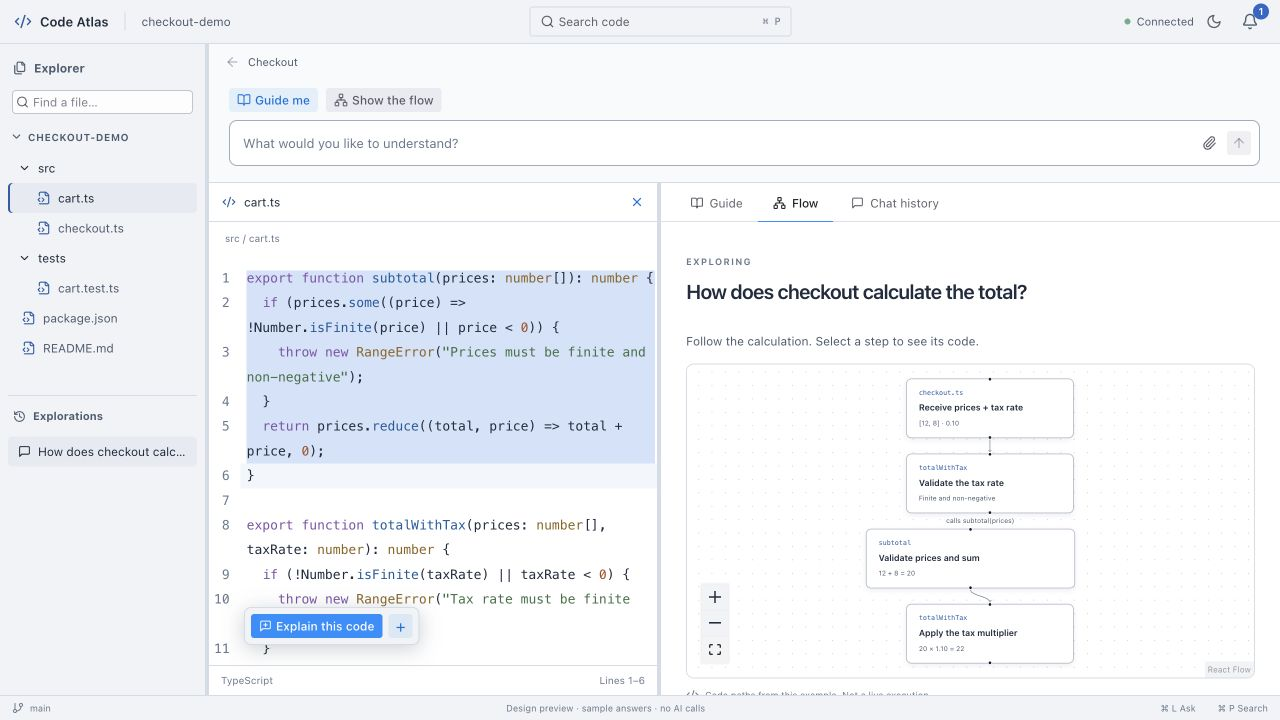
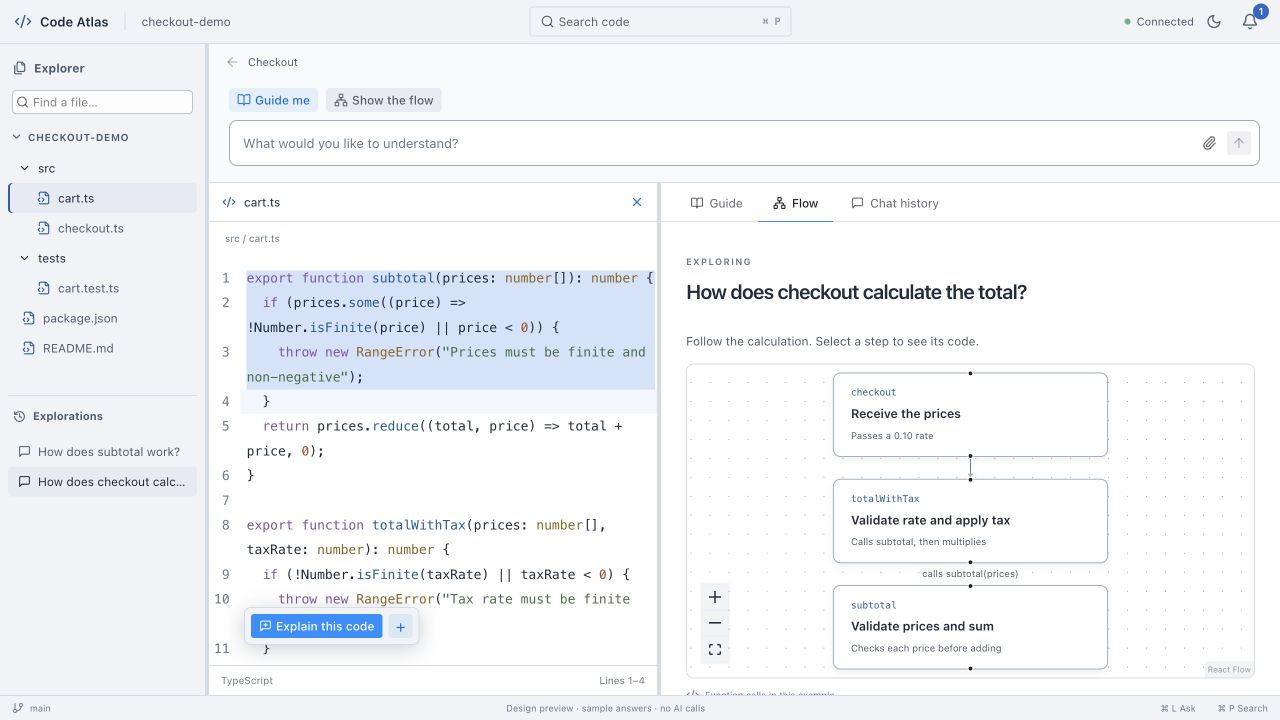
Keep workspace controls compact and refine nested exploration previews

diff --git a/src/design/WorkspacePreview.tsx b/src/design/WorkspacePreview.tsx
@@ -7,14 +7,23 @@ import { NotificationCenter, type WorkspaceNotification } from '../NotificationC
 import { CodePane } from './CodePane';
 import { exampleFiles, explorationPath, findExampleCode, readPreview, type CodeContext, type Exploration, type ExplorationView } from './example';
 
-const nodeLabels = ['Receive prices + tax rate', 'Validate the tax rate', 'Validate prices and sum', 'Apply the tax multiplier'];
+const nodeLabels = ['Receive the prices', 'Validate rate and apply tax', 'Validate prices and sum'];
 const nodes: Node[] = nodeLabels.map((label, i) => ({
-  id: String(i), position: { x: i === 2 ? 0 : 60, y: i * 112 },
-  data: { label: <><small>{['checkout.ts', 'totalWithTax', 'subtotal', 'totalWithTax'][i]}</small><strong>{label}</strong><span>{['[12, 8] · 0.10', 'Finite and non-negative', '12 + 8 = 20', '20 × 1.10 = 22'][i]}</span></> },
-  style: { width: i === 2 ? 312 : 250 },
+  id: String(i), position: { x: 0, y: i * 112 },
+  data: { label: <><small>{['checkout', 'totalWithTax', 'subtotal'][i]}</small><strong>{label}</strong><span>{['Passes a 0.10 rate', 'Calls subtotal, then multiplies', 'Checks each price before adding'][i]}</span></> },
+  style: { width: 290 },
   ariaLabel: label,
 }));
 const edges = nodes.slice(1).map((node, i) => ({ id: `e${i}`, source: String(i), target: node.id, markerEnd: { type: MarkerType.ArrowClosed }, label: i === 1 ? 'calls subtotal(prices)' : undefined }));
+const subtotalNodes: Node[] = [
+  { id: '0', position: { x: 108, y: 0 }, data: { label: <><small>subtotal · lines 1–4</small><strong>Check every price</strong><span>Finite and non-negative?</span></> }, style: { width: 205 } },
+  { id: '1', position: { x: 0, y: 140 }, data: { label: <><small>line 3</small><strong>Reject bad input</strong><span>Throw a RangeError</span></> }, style: { width: 205 } },
+  { id: '2', position: { x: 216, y: 140 }, data: { label: <><small>line 5</small><strong>Add from zero</strong><span>Return the subtotal</span></> }, style: { width: 205 } },
+];
+const subtotalEdges = [
+  { id: 'bad', source: '0', target: '1', label: 'Invalid', markerEnd: { type: MarkerType.ArrowClosed } },
+  { id: 'good', source: '0', target: '2', label: 'Valid', markerEnd: { type: MarkerType.ArrowClosed } },
+];
 
 function contextLabel(context: CodeContext) { return `${context.path.split('/').at(-1)}${context.from ? `:${context.from}${context.to !== context.from ? `–${context.to}` : ''}` : ''}`; }
 
@@ -61,7 +70,7 @@ export function WorkspacePreview() {
   }
   function explore(question: string, view: 'guide' | 'flow' = current.view === 'flow' ? 'flow' : 'guide', context = attachments) {
     if (!question.trim()) { setView(view); composer.current?.focus(); return; }
-    const kind = /negative|invalid|validat|reject/i.test(question) ? 'validation' : /overflow|break|limit|safe/i.test(question) ? 'limits' : /tax|rate/i.test(question) ? 'tax' : 'overview';
+    const kind = /negative|invalid|validat|reject|subtotal/i.test(question) ? 'validation' : /overflow|break|limit|safe/i.test(question) ? 'limits' : /tax|rate/i.test(question) ? 'tax' : 'overview';
     const existing = state.explorations.find((e) => e.parentId === current.id && e.question === question && JSON.stringify(e.context) === JSON.stringify(context));
     const next: Exploration = existing ?? { id: crypto.randomUUID(), parentId: current.id, question, view, context, kind };
     setState((s) => ({ ...s, currentId: next.id, explorations: existing ? s.explorations : [...s.explorations, next] }));
@@ -91,7 +100,8 @@ export function WorkspacePreview() {
   ] }));
   const children = state.explorations.filter((e) => e.parentId === current.id);
   const results = findExampleCode(searchQuery);
-  const nodeSource = (index: number): CodeContext => index === 0 ? { path: 'src/checkout.ts', from: 3, to: 5 } : index === 2 ? { path: 'src/cart.ts', from: 1, to: 6 } : { path: 'src/cart.ts', from: index === 1 ? 8 : 12, to: index === 1 ? 11 : 12 };
+  const nodeSource = (index: number): CodeContext => index === 0 ? { path: 'src/checkout.ts', from: 3, to: 5 } : index === 2 ? { path: 'src/cart.ts', from: 1, to: 6 } : { path: 'src/cart.ts', from: 8, to: 13 };
+  const detailFlow = /subtotal|negative|invalid/i.test(current.question);
 
   return <Theme appearance={state.theme} accentColor="blue" grayColor="slate" radius="medium" scaling="100%" className={`workspace-preview ${state.theme}`}>
     <header className="preview-titlebar">
@@ -152,14 +162,14 @@ export function WorkspacePreview() {
                     <article className="preview-answer-card">
                       <div className="preview-answer-number">01<span>{current.kind === 'validation' ? 'Input validation' : current.kind === 'limits' ? 'Edge cases' : 'Follow the calculation'}</span></div>
                       <h2>{current.kind === 'validation' ? 'Bad prices stop the calculation.' : current.kind === 'limits' ? 'Valid inputs can still produce an invalid total.' : 'Validate first. Sum next. Apply tax last.'}</h2>
-                      <p>{current.kind === 'validation' ? 'subtotal checks every price before reducing the array. A negative value, NaN, or Infinity throws a RangeError. No partial total is returned.' : current.kind === 'limits' ? 'Checking each input is not enough to guarantee a finite result. Adding very large finite prices can overflow, and the final multiplication has no extra check.' : 'checkout passes the prices and a 0.10 rate to totalWithTax. That function checks the rate, calls subtotal to check and add the prices, then multiplies the result by 1 + taxRate.'}</p>
+                      <p>{current.kind === 'validation' ? 'subtotal checks every price before reducing the array. A negative value, NaN, or Infinity throws a RangeError. No partial total is returned.' : current.kind === 'limits' ? 'Checking each input is not enough to guarantee a finite result. Adding very large finite prices can overflow, and the final multiplication has no extra check.' : 'checkout calls totalWithTax with a 0.10 rate. The rate is checked first. subtotal then validates and adds the prices; the result is multiplied by 1 + taxRate.'}</p>
                       <button className="preview-source-link" onClick={() => openFile({ path: 'src/cart.ts', from: current.kind === 'validation' ? 1 : 8, to: current.kind === 'validation' ? 6 : 13 })}><Code2 size={13} />cart.ts:{current.kind === 'validation' ? '1–6' : '8–13'}<ArrowRight size={13} /></button>
-                      <div className="preview-visual">
+                      {current.kind === 'validation' ? <div className="preview-visual preview-validation-visual"><div className="preview-visual-label">BEFORE ADDING ANY PRICES</div><div><code>[-1, 8]</code><ArrowRight size={16} /><span>RangeError</span></div><div><code>[12, 8]</code><ArrowRight size={16} /><span>20</span></div><p>One invalid price stops the calculation. An empty array returns zero.</p></div> : <div className="preview-visual">
                         <div className="preview-visual-label">{['CHECK THE INPUTS', 'ADD THE PRICES', 'APPLY TAX'][slide]}</div>
                         <div className="preview-calculation"><div><small>{slide === 0 ? 'Prices' : slide === 1 ? 'First price' : 'Subtotal'}</small><strong>{slide === 0 ? '[12, 8]' : slide === 1 ? '$12' : '$20'}</strong></div><span>{slide === 0 ? '+' : slide === 1 ? '+' : '×'}</span><div><small>{slide === 0 ? 'Tax rate' : slide === 1 ? 'Second price' : 'Multiplier'}</small><strong>{slide === 0 ? '0.10' : slide === 1 ? '$8' : '1.10'}</strong></div><ArrowRight size={18} /><div className="preview-calculation-result"><small>{slide === 0 ? 'Both finite ≥ 0' : slide === 1 ? 'Subtotal' : 'Total'}</small><strong>{slide === 0 ? <Check size={23} /> : slide === 1 ? '$20' : '$22'}</strong></div></div>
                         <div className="preview-visual-caption">{['Invalid inputs throw a RangeError before a result is returned.', 'reduce starts at zero and adds each validated price.', 'A rate of 0.10 adds 10% to the subtotal.'][slide]}</div>
                         <div className="preview-player"><Tooltip content="Play this visual step"><IconButton size="1" variant="ghost" color="gray" aria-label={playing ? 'Pause visual preview' : 'Play visual preview'} onClick={() => { if (slide === 2) setSlide(0); setPlaying((p) => !p); }}>{playing ? <Pause size={14} /> : <Play size={14} />}</IconButton></Tooltip><span>{slide + 1} of 3</span><div className="preview-player-dots">{[0, 1, 2].map((n) => <button key={n} aria-label={`Visual step ${n + 1}`} aria-current={slide === n ? 'step' : undefined} onClick={() => { setSlide(n); setPlaying(false); }} />)}</div><Button size="1" variant="ghost" color="gray" disabled={slide === 2} onClick={() => { setSlide((n) => n + 1); setPlaying(false); }}>Next<ArrowRight size={13} /></Button></div>
-                      </div>
+                      </div>}
                       <h3>{current.kind === 'limits' ? 'What to watch for' : 'The detail that matters'}</h3>
                       <p>{current.kind === 'limits' ? 'There is no rounding or currency type here. This example uses ordinary JavaScript numbers; callers must decide how monetary precision and overflow should be handled.' : 'The rate check runs first. If the rate is invalid, subtotal never runs. If a price is invalid, subtotal throws and the tax multiplication never happens.'}</p>
                       <footer className="preview-card-footer"><button onClick={() => explore('Why reject negative prices?', 'guide')}><ArrowDown size={13} />Why reject negative prices?</button><span>{children.length ? `${children.length} exploration${children.length === 1 ? '' : 's'}` : 'Go deeper'}</span></footer>
@@ -169,9 +179,9 @@ export function WorkspacePreview() {
                   </Tabs.Content>
                   <Tabs.Content value="flow">
                     <p className="preview-flow-intro">Follow the calculation. Select a step to see its code.</p>
-                    <div className="preview-flow"><ReactFlow nodes={nodes} edges={edges} fitView fitViewOptions={{ padding: .2 }} nodesDraggable={false} nodesConnectable={false} colorMode={state.theme} onNodeClick={(_, node) => openFile(nodeSource(Number(node.id)))} minZoom={.4} maxZoom={1.5} aria-label="Checkout calculation flow"><Background gap={20} size={1} /><Controls showInteractive={false} /></ReactFlow></div>
-                    <div className="preview-flow-caption"><Code2 size={13} />Code paths from this example. Not a live execution.</div>
-                    <Button variant="soft" size="2" onClick={() => { openFile({ path: 'src/cart.ts', from: 1, to: 6 }); explore('How does subtotal work?', 'flow'); }}><Network size={14} />Explore subtotal<ChevronRight size={14} /></Button>
+                    <div className="preview-flow"><ReactFlow key={detailFlow ? 'subtotal' : 'project'} nodes={detailFlow ? subtotalNodes : nodes} edges={detailFlow ? subtotalEdges : edges} fitView fitViewOptions={{ padding: .06 }} nodesDraggable={false} nodesConnectable={false} colorMode={state.theme} onNodeClick={(_, node) => openFile(detailFlow ? { path: 'src/cart.ts', from: node.id === '0' ? 1 : node.id === '1' ? 3 : 5, to: node.id === '0' ? 4 : node.id === '1' ? 3 : 5 } : nodeSource(Number(node.id)))} minZoom={.4} maxZoom={1.5} aria-label={detailFlow ? 'Subtotal validation flow' : 'Checkout calculation flow'}><Background gap={20} size={1} /><Controls showInteractive={false} /></ReactFlow></div>
+                    <div className="preview-flow-caption"><Code2 size={13} />{detailFlow ? 'Validation and calculation inside subtotal.' : 'Function calls in this example.'}</div>
+                    <Button variant="soft" size="2" onClick={() => { openFile({ path: 'src/cart.ts', from: 1, to: 6 }); explore(detailFlow ? 'Why reject negative prices?' : 'How does subtotal work?', 'flow'); }}><Network size={14} />{detailFlow ? 'Explore input validation' : 'Explore subtotal'}<ChevronRight size={14} /></Button>
                   </Tabs.Content>
                   <Tabs.Content value="history"><div className="preview-chat-history">{ancestors.flatMap((e) => [{ id: e.id, question: e.question, owner: e.id }, ...(e.turns ?? []).map((t) => ({ ...t, owner: e.id }))]).map((turn) => <div key={turn.id}><div className="preview-history-question"><MessageSquare size={15} /><strong>{turn.question}</strong></div><p>The calculation validates its inputs, sums prices, and applies the tax multiplier.</p><button onClick={() => { setState((s) => ({ ...s, currentId: turn.owner })); setView('guide'); }}><BookOpen size={13} />Open explanation<ArrowRight size={13} /></button></div>)}</div></Tabs.Content>
                   {current.view !== 'history' && (current.turns ?? []).map((turn, index) => {

diff --git a/src/App.tsx b/src/App.tsx
@@ -1311,7 +1311,7 @@ function App() {
     ...pendingChapterPreviews.map((preview): WorkspaceNotification => ({
       id: `preview:${preview.generationId}`, title: preview.unavailableReason ? 'An explanation needs attention' : 'An explanation is ready',
       message: `${preview.title}${preview.targetPath ? ` · ${preview.targetPath}` : ''}`, tone: preview.unavailableReason ? 'warning' : 'info',
-      actions: [{ label: 'Open explanation', disabled: Boolean(preview.unavailableReason), run: () => {
+      actions: [{ label: 'Open explanation', disabled: Boolean(preview.unavailableReason), opensDialog: true, run: () => {
         recoveredPreviewReturnFocusRef.current = document.querySelector<HTMLButtonElement>('[data-focus-key="notifications"]');
         setRecoveredPreviewId(preview.generationId);
       } }, { label: 'Discard preview', run: () => { void discardPendingPreview(preview); } }],
@@ -1470,7 +1470,7 @@ function App() {
               aria-expanded={toolsOpen}
               aria-haspopup="menu"
             >
-              <Settings2 size={16} /><span>Settings</span>
+              <Settings2 size={16} />
             </button>
             {toolsOpen && (
               <div className="tools-menu" role="menu" aria-label="More tools">
@@ -1482,16 +1482,10 @@ function App() {
                 <button role="menuitem" data-focus-key="tools-button" onClick={() => chooseWorkspace('chapter-studio')}>
                   <BookOpen size={16} /> <span>Review a draft</span>
                 </button>
+                <button role="menuitem" onClick={() => { setToolsOpen(false); showComingSoon('Keyboard shortcuts', '⌘1 Guide · ⌘2 Files · ⌘3 Changes · ⌘K Search · ⌘[ Back · ⌘] Forward · ⌘= zoom in · ⌘− zoom out (20% steps)'); }}><CircleHelp size={16} /><span>Keyboard shortcuts</span></button>
               </div>
             )}
           </div>
-          <button
-            className="icon-button help-button"
-            onClick={() => showComingSoon('Code Atlas help', 'Shortcuts: ⌘1 Guide · ⌘2 Files · ⌘3 Changes · ⌘[ Back · ⌘] Forward · ⌘= zoom in · ⌘− zoom out (20% steps).')}
-            aria-label="Help and keyboard shortcuts"
-          >
-            <CircleHelp size={17} />
-          </button>
         </div>
       </header>
 
@@ -1711,8 +1705,8 @@ function App() {
             )}
 
             <footer className="workspace-footer">
-              <span>{runtime?.native ? 'Mac app' : 'Desktop preview'} <span className="footer-dot">·</span> {runtime?.version ?? 'Checking shell…'}</span>
-              <span>{currentWorkspace === 'changes' ? 'Local Git comparison reads existing commit objects only. No checkout or remote request.' : selectedSnapshot ? `Immutable local snapshot ${selectedSnapshot.snapshotId.slice(-10)} · ${selectedSnapshot.status === 'partial' ? 'partial capture' : 'complete under policy'}` : currentCapture?.status === 'running' ? 'Capturing bounded repository bytes locally.' : currentProject ? 'No source bytes are read until you create a snapshot.' : 'No repository source is read until you choose a folder and create a snapshot.'}</span>
+              <span>{currentProject?.displayName ?? 'Code Atlas'}</span>
+              <span>{currentWorkspace === 'changes' ? 'Local changes' : selectedSnapshot?.branch ?? ''}</span>
             </footer>
           </section>
         </main>

diff --git a/src/design/CodePane.tsx b/src/design/CodePane.tsx
@@ -30,7 +30,7 @@ export function CodePane({ path, theme, reveal, onExplain, onAttach, onClose }: 
     const view = new EditorView({ parent: host.current, state: EditorState.create({
       doc: exampleFiles[path], extensions: [
         EditorState.readOnly.of(true), lineNumbers(), drawSelection(), highlightActiveLine(), EditorView.lineWrapping,
-        javascript({ typescript: path.endsWith('.ts') }), syntaxHighlighting(colors),
+        ...(path.endsWith('.ts') ? [javascript({ typescript: true })] : []), syntaxHighlighting(colors),
         EditorView.theme({ '&': { height: '100%', backgroundColor: 'var(--editor-bg)', color: 'var(--text)' }, '.cm-scroller': { fontFamily: 'var(--mono)', fontSize: '13px', lineHeight: '1.9' }, '.cm-content': { padding: '16px 0' }, '.cm-gutters': { backgroundColor: 'var(--editor-bg)', color: 'var(--dim)', borderRight: 'none', paddingRight: '8px' }, '.cm-activeLine, .cm-activeLineGutter': { backgroundColor: 'var(--active-line)' }, '.cm-selectionBackground, &.cm-focused .cm-selectionBackground': { backgroundColor: 'var(--selection)' }, '&.cm-focused': { outline: 'none' } }, { dark: theme === 'dark' }),
         EditorView.contentAttributes.of({ 'aria-label': `Source code, ${path}` }),
         keymap.of([{ key: 'Mod-i', run: (v) => { const r = v.state.selection.main; if (r.empty) return false; callback.current({ path, from: v.state.doc.lineAt(r.from).number, to: v.state.doc.lineAt(r.to).number }); return true; } }, ...defaultKeymap]),
@@ -47,6 +47,7 @@ export function CodePane({ path, theme, reveal, onExplain, onAttach, onClose }: 
   useEffect(() => {
     const view = editor.current;
     if (!view || !reveal || reveal.path !== path) return;
+    if (!reveal.from) { view.dispatch({ selection: { anchor: 0 } }); return; }
     const from = view.state.doc.line(Math.min(reveal.from ?? 1, view.state.doc.lines)).from;
     const to = view.state.doc.line(Math.min(reveal.to ?? reveal.from ?? 1, view.state.doc.lines)).to;
     view.dispatch({ selection: { anchor: from, head: to }, effects: EditorView.scrollIntoView(from, { y: 'center' }) });
@@ -59,6 +60,6 @@ export function CodePane({ path, theme, reveal, onExplain, onAttach, onClose }: 
       <Button size="1" onClick={() => onExplain(selection)}><MessageSquarePlus size={13} />Explain this code</Button>
       <Tooltip content="Add selected lines to your question"><IconButton size="1" variant="soft" aria-label="Add selection to chat" onClick={() => onAttach(selection)}>+</IconButton></Tooltip>
     </div>}
-    <footer className="preview-editor-footer"><span>TypeScript</span><span>{selection ? `Lines ${selection.from}–${selection.to}` : 'Select code to ask about it'}</span></footer>
+    <footer className="preview-editor-footer"><span>{path.endsWith('.ts') ? 'TypeScript' : path.endsWith('.json') ? 'JSON' : 'Markdown'}</span><span>{selection ? `Lines ${selection.from}–${selection.to}` : 'Select code to ask about it'}</span></footer>
   </section>;
 }

diff --git a/src/ConnectionHeader.tsx b/src/ConnectionHeader.tsx
@@ -13,8 +13,7 @@ export function ConnectionHeader({ onOpen }: { onOpen: () => void }) {
   }, []);
   useEffect(() => { if (backend === 'codex') initializeConnection(); }, [backend]);
   const ready = backend === 'codex' && connection.status?.authenticated && connection.status.runtimeRunning;
-  const model = connection.models.find((item) => item.modelId === connection.selection.modelId)?.displayName ?? connection.selection.modelId;
-  const label = backend !== 'codex' ? backend === 'api' ? 'API connection' : 'Agent connection' : connection.checking ? 'Connecting Codex…' : ready ? `Codex · ${model} · ${connection.selection.effort}` : 'Connect Codex';
+  const label = backend !== 'codex' ? backend === 'api' ? 'API connection' : 'Agent connection' : connection.checking ? 'Connecting…' : ready ? 'Codex' : 'Connect Codex';
   const Icon = connection.checking ? LoaderCircle : ready ? CheckCircle2 : connection.error ? CircleAlert : PlugZap;
   return <button className={`connection-header ${ready ? 'ready' : ''}`} onClick={onOpen}
     aria-label={`${label}. Open connection settings`} title={ready ? `Connected${connection.status?.accountEmail ? ` as ${connection.status.accountEmail}` : ''}. Change connection settings.` : 'Set up your generation connection once'}>

diff --git a/src/NotificationCenter.tsx b/src/NotificationCenter.tsx
@@ -8,7 +8,7 @@ export interface WorkspaceNotification {
   title: string;
   message: string;
   tone?: 'info' | 'warning' | 'error';
-  actions?: { label: string; run: () => void; disabled?: boolean }[];
+  actions?: { label: string; run: () => void; disabled?: boolean; opensDialog?: boolean }[];
 }
 
 /** Background work never opens this panel or moves the reader's focus. */
@@ -37,7 +37,7 @@ export function NotificationCenter({ items, open: controlledOpen, onOpenChange }
           <div className="notification-item-title">{item.tone === 'error' || item.tone === 'warning' ? <CircleAlert size={16} /> : <Info size={16} />}<strong>{item.title}</strong></div>
           <p>{item.message}</p>
           {item.actions?.length ? <div className="notification-item-actions">{item.actions.map((action) => <button type="button" key={action.label} disabled={action.disabled} onClick={() => {
-            actionOpened.current = true;
+            actionOpened.current = Boolean(action.opensDialog);
             setOpen(false);
             action.run();
           }}>{action.label}</button>)}</div> : null}

diff --git a/src/design/workspace-preview.css b/src/design/workspace-preview.css
@@ -137,3 +137,8 @@ html, body, #root { height: 100%; }
 .preview-visual-caption { font-size: 11px; }
 /* Keep the current flow visible beside code in a normal desktop window. */
 .preview-flow { height: clamp(260px, calc(100dvh - 405px), 490px); }
+.preview-validation-visual > div:not(.preview-visual-label) { display: flex; justify-content: space-between; align-items: center; padding: 18px; gap: 12px; font-size: 14px; }
+.preview-validation-visual code { color: var(--accent); font-family: var(--mono); }
+.preview-validation-visual > p { padding: 0 16px 8px; font-size: 12px; }
+.preview-breadcrumbs { height: 28px; }
+.preview-composer { padding-bottom: 12px; }

diff --git a/README.md b/README.md
@@ -6,7 +6,7 @@ The project currently runs from a source checkout; this repository does not prov
 
 ![Actual Mac app: explorer, captured TypeScript source, and its saved explanation](docs/design/native-files-2026-10-16.jpg)
 
-The native workspace now puts a file explorer, real source, and Explanation / Flow / Player controls together. The header shows the saved Codex connection, model and reasoning. AI chooses supporting code from the snapshot index; local source review and consent remain explicit. Light, dark and system themes are available in the header. See the [workspace review and remaining design work](docs/acceptance/2026-10-16-code-workspace.md).
+The native workspace now puts a file explorer, real source, and Explanation / Flow / Player controls together. The header shows the saved Codex connection; model and reasoning are kept in connection settings. AI chooses supporting code from the snapshot index; local source review and consent remain explicit. Light, dark and system themes are available in the header. See the [workspace review and remaining design work](docs/acceptance/2026-10-16-code-workspace.md).
 
 The latest design direction is a [persistent developer workspace](docs/design/WORKSPACE_EXPLORATION.md): files on the left, chat at the top, and Guide / Flow / Chat history inside each exploration. An [interactive design preview](http://127.0.0.1:4173/workspace-preview.html) is available with the existing dev server. It uses sample answers, not live generation. The native app still has Guide / Files / Changes navigation while this redesign is pending. The older Atlas / Code Lens / Walkthrough concept board is retained as a historical reference. These design images are proposals, not screenshots of the running app. Product behavior and release goals are described in the [blueprint](docs/PRODUCT_BLUEPRINT.md); they are not proof that every acceptance gate has passed.
 

diff --git a/docs/AI_GUIDE_FLOW.md b/docs/AI_GUIDE_FLOW.md
@@ -4,7 +4,7 @@ Code Atlas uses Codex to choose relevant implementation from an immutable snapsh
 
 ## Connect once
 
-The header shows Codex, the chosen model and reasoning level. Click it to change connection settings. The app restores an existing installed Codex account at startup when Codex is selected, unless you explicitly disconnected. Account restoration and model discovery can contact Codex account services; they do not send repository source. Missing login opens setup when discovery needs it. Credentials remain managed by Codex.
+The header shows a compact Codex connection state. Click it to change connection settings, including the shared model and reasoning level. The app restores an existing installed Codex account at startup when Codex is selected, unless you explicitly disconnected. Account restoration and model discovery can contact Codex account services; they do not send repository source. Missing login opens setup when discovery needs it. Credentials remain managed by Codex.
 
 Appearance is also in the header: **System**, **Light**, or **Dark**. The choice persists locally. Both palettes use neutral editor surfaces, blue actions, readable secondary text and distinct warning/error colors.
 

diff --git a/docs/design/WORKSPACE_EXPLORATION.md b/docs/design/WORKSPACE_EXPLORATION.md
@@ -14,6 +14,10 @@ These are screenshots of the interactive sample design, not the packaged app.
 
 ![Background updates behind the notification bell](workspace-notifications-light.jpg)
 
+![Nested function-level Flow with inline source](workspace-nested-flow-light.jpg)
+
+![No-result search keeps an Explore with AI action](workspace-search-light.jpg)
+
 ## What the reader sees
 
 - **Left:** a persistent, searchable file explorer. Opening a file shows actual code beside the explanation; closing code gives the explanation more space. The explorer remains available in every view.
